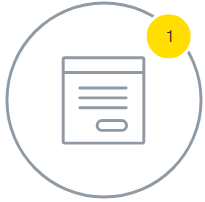
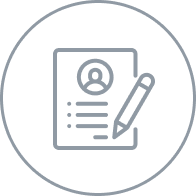
pravki

Changed region(s): [[0.2449, 0.2449, 0.7959, 0.7653], [0.0, 0.0, 1.0, 1.0]]

diff --git a/index.html b/index.html
@@ -64,7 +64,7 @@
        </div>
        <div class="col-md-4">
         <div class="item_wrapper">
-         <img src="img/like.png" alt="">
+            <div class="img-like"><img src="img/contract.png" alt=""></div>
          <h3 class="showcase__item-title">Результат сразу</h3>
          <p class="showcase__item-desc">В конце собеседования вы уже будете знать результат</p>
        </div>
@@ -185,7 +185,7 @@
           <img src="img/step_1.png" alt="">
           <h3 class="showcase__item-title">Заполните анкету</h3>
           <p class="showcase__item-desc">Мы свяжемся с вами <br>в течение рабочего дня</p>
-          <button class="showcase__link-to-form ui-link js-scroll-to-form">Заполнить анкету</button>
+          <button class="showcase__link-to-form ui-link js-scroll-to-form" style="background-color: #FFDD2D;color: #000;padding: 15px 15px;border-radius: 5px;box-shadow: black 0px 7px 5px -6px;">Заполнить анкету</button>
         </div>
       </div>
       <div class="col-md-4">
@@ -216,7 +216,7 @@
     <div class="wrapper">
         <div class="form__content">
             <div class="ui-form__container ui-form__container_highlight ui-form__container_separator js-form__container">
-                <h2 class="ui-form__title">Заполните анкету</h2>
+                <h2 class="ui-form__title" style="font-weight: bold;">Анкета</h2>
                 <div class="app-form-rules-container hidden"><span class="ui-icon ui-icon_size_25 ui-icon_color_gray app-form-rules-close-button"><svg viewBox="0 0 100 100"><path d="M2.5 2.5l95 95m-95 0l95-95" class="ui-icon__svg"></path></svg></span>
                     <div class="app-form-rules">
                         <h2 class="ui-title ui-title_color_black ui-title_size_s">Условия передачи информации</h2>
@@ -392,7 +392,7 @@
                                 <div class="ui-form__row">
                                     <div class="ui-form__field">
                                         <div class="ui-form__component">
-                                            <button type="" target="" class="ui-button ui-button_size_xxl app-form-forward-button"><span>Отправить</span></button>
+                                            <button type="" target="" class="ui-button ui-button_size_xxl app-form-forward-button" style="box-shadow: black 0px 7px 5px -6px;"><span>Отправить</span></button>
                                         </div>
                                     </div>
                                 </div>
@@ -423,182 +423,8 @@
 </section>
 
 
-<section class="feedback">
-    <div class="wrapper">
-        <h2 class="title">Отзывы о работе</h2>
-        <div class="feedback__slider js-slick slick-initialized slick-slider">
-            <!-- <button class="slick-prev slick-arrow" aria-label="Previous" type="button" style="display: block;">Previous</button> -->
-            <div class="slick-list draggable">
-                <div class="slick-track" style="">
-                    <div class="slick-slide" data-slick-index="0" aria-hidden="true" tabindex="-1">
-                        <div>
-                            <div class="feedback__item" style="width: 100%; display: inline-block;">
-                                <div class="feedback__author"><img src="img/milnikova.png" alt="" class="feedback__photo">
-                                    <div class="feedback__author-text">
-                                        <div class="feedback__name">Ксения</div>
-                                        <div class="feedback__job">Работает в&nbsp;Компании Тинькофф Банк с&nbsp;октября 2014 года</div>
-                                    </div>
-                                </div>
-                                <div class="feedback__text">Крутое место. Рада, что попала сюда.
-                                    <br>Отличный коллектив. Есть возможность развития в&nbsp;разных отделах.
-                                    <br>Радует, что есть возможность подстраивать расписание под себя.</div>
-                            </div>
-                        </div>
-                    </div>
-                    <div class="slick-slide" data-slick-index="1" aria-hidden="true" tabindex="-1">
-                        <div>
-                            <div class="feedback__item" style="width: 100%; display: inline-block;">
-                                <div class="feedback__author"><img src="img/trifonova.png" alt="" class="feedback__photo">
-                                    <div class="feedback__author-text">
-                                        <div class="feedback__name">Анна</div>
-                                        <div class="feedback__job">Работает в&nbsp;Компании Тинькофф Банк с&nbsp;сентября 2015 года</div>
-                                    </div>
-                                </div>
-                                <div class="feedback__text">Тинькофф Банк&nbsp;— место, придя в&nbsp;которое, сразу&nbsp;же понимаешь, что хочешь работать именно здесь. Банк дарит море возможностей для реализации себя и&nbsp;саморазвития.
-                                    <br>Больше всего ценю банк за&nbsp;его атмосферу и&nbsp;очень дружный коллектив. Ведь идти на&nbsp;работу с&nbsp;радостью каждый день и&nbsp;получать удовольствие от&nbsp;работы&nbsp;— одна из&nbsp;самых важных вещей в&nbsp;жизни каждого человека.</div>
-                            </div>
-                        </div>
-                    </div>
-                    <div class="slick-slide" data-slick-index="2" aria-hidden="true" tabindex="-1">
-                        <div>
-                            <div class="feedback__item" style="width: 100%; display: inline-block;">
-                                <div class="feedback__author"><img src="img/skovorodina.png" alt="" class="feedback__photo">
-                                    <div class="feedback__author-text">
-                                        <div class="feedback__name">Елена</div>
-                                        <div class="feedback__job">Работает в&nbsp;Компании Тинькофф Банк с&nbsp;декабря 2014 года</div>
-                                    </div>
-                                </div>
-                                <div class="feedback__text">Я&nbsp;рада, что являюсь частью команды Тинькофф Банка. У&nbsp;нас прозрачная система мотивации сотрудников, что означает, что твой заработок и&nbsp;прогресс полностью зависит от&nbsp;тебя. Самый дружный коллектив, который в&nbsp;самые сложные моменты заряжает тебя позитивом. Спасибо вам!</div>
-                            </div>
-                        </div>
-                    </div>
-                    <div class="slick-slide" data-slick-index="3" aria-hidden="true" tabindex="-1">
-                        <div>
-                            <div class="feedback__item" style="width: 100%; display: inline-block;">
-                                <div class="feedback__author"><img src="img/woman.png" alt="" class="feedback__photo">
-                                    <div class="feedback__author-text">
-                                        <div class="feedback__name">Дарья</div>
-                                        <div class="feedback__job">Работает в&nbsp;Компании Тинькофф Банк с&nbsp;октября 2015 года</div>
-                                        <div class="feedback__salary">Зарабатывает в&nbsp;среднем 45&nbsp;000 ₽</div>
-                                    </div>
-                                </div>
-                                <div class="feedback__text">Это мой первый опыт работы и&nbsp;я&nbsp;не&nbsp;жалею, что пришла работать в&nbsp;этот банк.
-                                    <br>Сразу нашла общий язык с&nbsp;коллегами, потому что много сотрудников банка&nbsp;— мои&nbsp;же ровесники. Так&nbsp;же не&nbsp;малый плюс, что с&nbsp;начала своего карьерного роста начала получать зарплату в&nbsp;размере 45&nbsp;тыс.&nbsp;рублей. Уверена, это еще не&nbsp;предел.
-                                    <br>Поэтому кто еще в&nbsp;сомнениях, советую попробовать, потому что в&nbsp;банке Тинькофф работать очень интересно.</div>
-                            </div>
-                        </div>
-                    </div>
-                    <div class="slick-slide slick-current slick-active" data-slick-index="4" aria-hidden="false">
-                        <div>
-                            <div class="feedback__item" style="width: 100%; display: inline-block;">
-                                <div class="feedback__author"><img src="img/dzhanbola.png" alt="" class="feedback__photo">
-                                    <div class="feedback__author-text">
-                                        <div class="feedback__name">Закир</div>
-                                        <div class="feedback__job">Работает в&nbsp;Компании Тинькофф Банк с&nbsp;августа 2015 года</div>
-                                        <div class="feedback__salary">Зарабатывает в&nbsp;среднем 64&nbsp;000 ₽</div>
-                                    </div>
-                                </div>
-                                <div class="feedback__text">Пришел в&nbsp;Тинькофф для повышения профессиональных и&nbsp;личностных качеств. Ожидания оправдались.
-                                    <br>Оплата строго пропорциональна тому, как работаешь.
-                                    <br>Считаю, что Банк Тинькофф одинаково подходит как для опытных соискателей, так и&nbsp;для тех, кто только начинает свой подъем по&nbsp;карьерной лестнице.</div>
-                            </div>
-                        </div>
-                    </div>
-                    <div class="slick-slide" data-slick-index="5" aria-hidden="true" tabindex="-1">
-                        <div>
-                            <div class="feedback__item" style="width: 100%; display: inline-block;">
-                                <div class="feedback__author"><img src="img/alyakin.png" alt="" class="feedback__photo">
-                                    <div class="feedback__author-text">
-                                        <div class="feedback__name">Антон</div>
-                                        <div class="feedback__job">Работает в&nbsp;Компании Тинькофф Банк с&nbsp;мая 2015 года</div>
-                                        <div class="feedback__salary">Зарабатывает в&nbsp;среднем 69&nbsp;000 ₽</div>
-                                    </div>
-                                </div>
-                                <div class="feedback__text">Самое важное, что я&nbsp;искал в&nbsp;работе&nbsp;— постоянное развитие, достойный уровень дохода, карьерный рост.
-                                    <br>Попав в&nbsp;Collection Тинькофф Банк, я&nbsp;нашел для себя всё, что искал. Большую роль играет амбициозный коллектив, нацеленный на&nbsp;результат. За&nbsp;9&nbsp;месяцев работы я&nbsp;поднялся на&nbsp;2 ступени карьерного пути. Руководство не&nbsp;оставило без внимания результаты моей работы, в&nbsp;результате чего я&nbsp;теперь занимаю должность Руководителя Группы. Хотите достигать успеха и&nbsp;иметь высокий уровень дохода? Прямая дорога в&nbsp;Collection Тинькофф Банк.</div>
-                            </div>
-                        </div>
-                    </div>
-                    <div class="slick-slide" data-slick-index="6" aria-hidden="true" tabindex="-1">
-                        <div>
-                            <div class="feedback__item" style="width: 100%; display: inline-block;">
-                                <div class="feedback__author"><img src="img/mitrakova.png" alt="" class="feedback__photo">
-                                    <div class="feedback__author-text">
-                                        <div class="feedback__name">Екатерина</div>
-                                        <div class="feedback__job">Работает в&nbsp;Компании Тинькофф.Страхование с&nbsp;октября 2015 года</div>
-                                        <div class="feedback__salary">Зарабатывает в&nbsp;среднем 53&nbsp;000 ₽</div>
-                                    </div>
-                                </div>
-                                <div class="feedback__text">Для меня важно, когда есть порядок работы, очень дружный коллектив и&nbsp;достойная белая зарплата. И&nbsp;все это я&nbsp;нашла в&nbsp;Тинькофф Страховании.
-                                    <br>И&nbsp;если ты&nbsp;хорошо работаешь, то&nbsp;тебя замечают&nbsp;— этого мне не&nbsp;хватало на&nbsp;предыдущих работах.
-                                    <br>
-                                    <br>Если ты&nbsp;мой единомышленник, то&nbsp;мы&nbsp;с&nbsp;тобой скоро познакомимся)</div>
-                            </div>
-                        </div>
-                    </div>
-                    <div class="slick-slide" data-slick-index="7" aria-hidden="true" tabindex="-1">
-                        <div>
-                            <div class="feedback__item" style="width: 100%; display: inline-block;">
-                                <div class="feedback__author"><img src="img/samarina.png" alt="" class="feedback__photo">
-                                    <div class="feedback__author-text">
-                                        <div class="feedback__name">Евгения</div>
-                                        <div class="feedback__job">Работает в&nbsp;Компании Тинькофф.Страхование с&nbsp;ноября 2014 года</div>
-                                        <div class="feedback__salary">Зарабатывает в&nbsp;среднем 51&nbsp;000 ₽</div>
-                                    </div>
-                                </div>
-                                <div class="feedback__text">Я&nbsp;рада, что работаю в&nbsp;Тинькофф. Моя зарплата зависит только от&nbsp;желания работать хорошо. Сейчас получаю больше, чем друзья. Повышение в&nbsp;должности было уже через 9&nbsp;месяцев.
-                                    <br>
-                                    <br>И&nbsp;самый большой плюс&nbsp;— работаешь с&nbsp;молодыми и&nbsp;энергичными коллегами, такими&nbsp;же как ты.</div>
-                            </div>
-                        </div>
-                    </div>
-                    <div class="slick-slide" data-slick-index="8" aria-hidden="true" tabindex="-1">
-                        <div>
-                            <div class="feedback__item" style="width: 100%; display: inline-block;">
-                                <div class="feedback__author"><img src="img/yuliya.png" alt="" class="feedback__photo">
-                                    <div class="feedback__author-text">
-                                        <div class="feedback__name">Юлия</div>
-                                        <div class="feedback__job">Работает в&nbsp;Компании Тинькофф Банк</div>
-                                        <div class="feedback__salary">Зарабатывает в&nbsp;среднем 75&nbsp;000 ₽</div>
-                                    </div>
-                                </div>
-                                <div class="feedback__text">Я&nbsp;работаю в&nbsp;отделе верификации уже 4 года и&nbsp;достигла должности «главный эксперт». Сразу скажу, что для того, чтобы получать желаемый уровень дохода, необходимо приложить много усилий. Безумно поддерживает атмосфера в&nbsp;коллективе. А&nbsp;еще я&nbsp;встретила здесь свою вторую половинку)</div>
-                            </div>
-                        </div>
-                    </div>
-                    <div class="slick-slide" data-slick-index="9" aria-hidden="true" tabindex="-1">
-                        <div>
-                            <div class="feedback__item" style="width: 100%; display: inline-block;">
-                                <div class="feedback__author"><img src="img/olesya.png" alt="" class="feedback__photo">
-                                    <div class="feedback__author-text">
-                                        <div class="feedback__name">Олеся</div>
-                                        <div class="feedback__job">Работает в&nbsp;Компании Тинькофф Банк</div>
-                                        <div class="feedback__salary">Зарабатывает в&nbsp;среднем 41&nbsp;000 ₽</div>
-                                    </div>
-                                </div>
-                                <div class="feedback__text">Банк Тинькофф&nbsp;— мое первое серьезное место работы. Уже с&nbsp;первого месяца при поддержке моего руководителя я&nbsp;смогла достичь успешных результатов. С&nbsp;каждым месяцем я&nbsp;улучшала свои навыки, мой доход увеличивался, а&nbsp;уже через 6&nbsp;месяцев я&nbsp;получила первое повышение. Надеюсь на&nbsp;дальнейший карьерный рост и&nbsp;развитие!</div>
-                            </div>
-                        </div>
-                    </div>
-                    <div class="slick-slide" data-slick-index="10" aria-hidden="true" tabindex="-1">
-                        <div>
-                            <div class="feedback__item" style="width: 100%; display: inline-block;">
-                                <div class="feedback__author"><img src="img/yaroslav.png" alt="" class="feedback__photo">
-                                    <div class="feedback__author-text">
-                                        <div class="feedback__name">Ярослав</div>
-                                        <div class="feedback__job">Работает в&nbsp;Компании Тинькофф Банк</div>
-                                        <div class="feedback__salary">Зарабатывает в&nbsp;среднем 29&nbsp;000 ₽</div>
-                                    </div>
-                                </div>
-                                <div class="feedback__text">Работа в&nbsp;банке Тинькофф&nbsp;— это колоссальный опыт для меня как молодого специалиста. После университета, сложно найти достойную организацию, без опыта работы. Но&nbsp;банк Тинькофф, дал мне этот шанс! После 2 недель обучения с&nbsp;очень опытными преподавателями, которые простым языком объясняют, что от&nbsp;меня требуется, я&nbsp;сдал все экзамены. Очень удобный график работы, а&nbsp;молодой и&nbsp;дружный коллектив и&nbsp;возможность зарабатывать деньги&nbsp;— очень приятные бонусы! Очень рад, быть в&nbsp;дружной команде банка Тинькофф!</div>
-                            </div>
-                        </div>
-                    </div>
-                </div>
-            </div>
-            <!-- <button class="slick-next slick-arrow" aria-label="Next" type="button" style="display: block;">Next</button> -->
-        </div>
-    </div>
+<section class="g-maps">
+    <iframe src="https://www.google.com/maps/embed?pb=!1m18!1m12!1m3!1d2540.931825908943!2d30.630130715957982!3d50.44237049582784!2m3!1f0!2f0!3f0!3m2!1i1024!2i768!4f13.1!3m3!1m2!1s0x40d4c545078e047b%3A0x9712702a6734628!2z0LLRg9C70LjRhtGPINCS0L7Qu9C-0LTQuNC80LjRgNCwINCh0L7RgdGO0YDQuCwgNiwg0JrQuNGX0LIsIDAyMDAw!5e0!3m2!1suk!2sua!4v1551271182056" height="527" frameborder="0" style="border:0; width: 100%" allowfullscreen></iframe>
 </section>
 
 

diff --git a/css/main.css b/css/main.css
@@ -2785,9 +2785,12 @@ ul {
   margin-right: -18px;
   margin-left: -18px;
   padding: 40px 0 32px;
-  background-color: #3e4757;
-  color: #fff;
+  background-color: #FFDD2D;
+  color: #000;
   text-align: center;
+  box-shadow: black 0px 7px 5px -6px;
+  border: 1px solid;
+  border-color: black;
 }
 @media screen and (min-width: 541px) {
   .ui-form__title {
